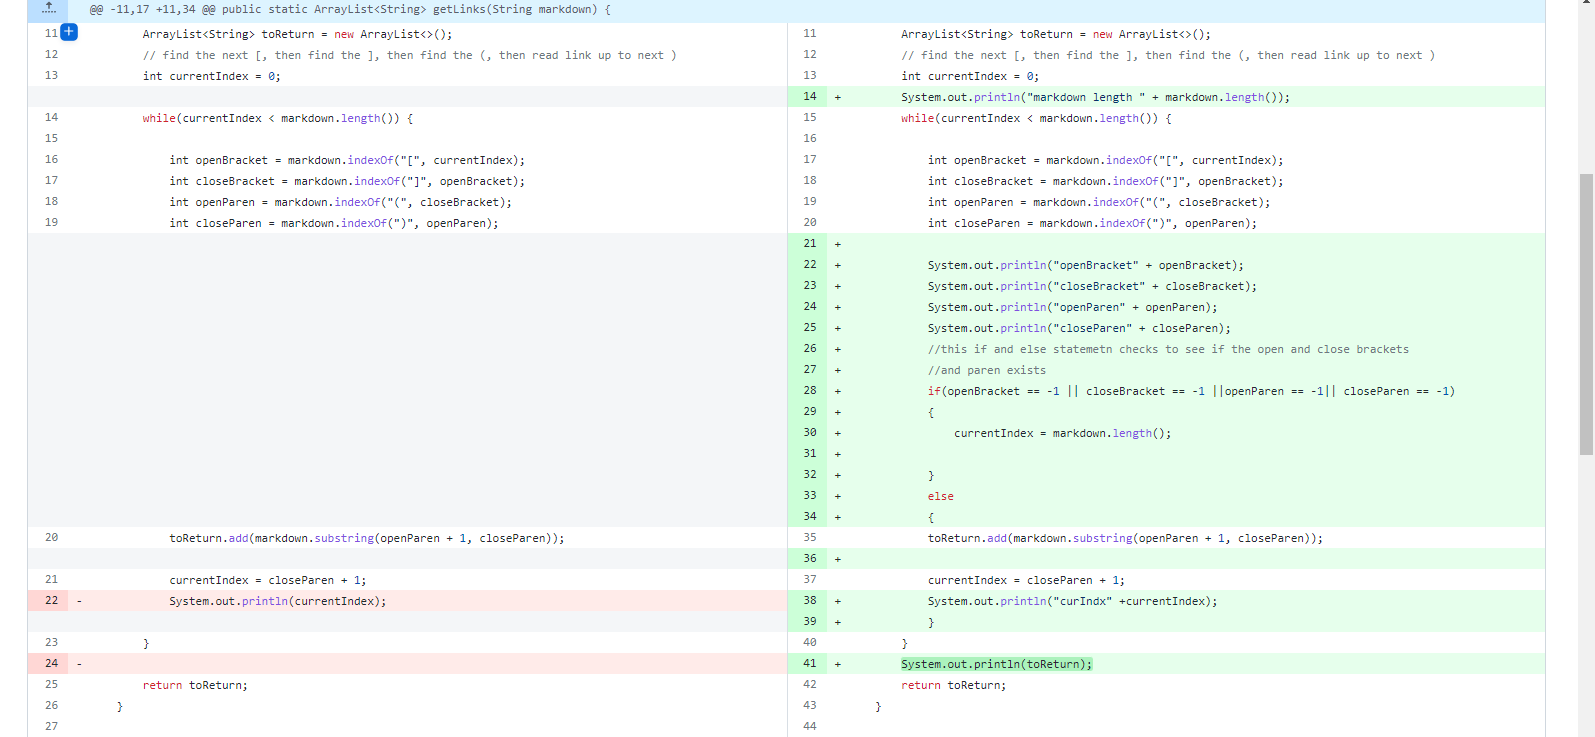
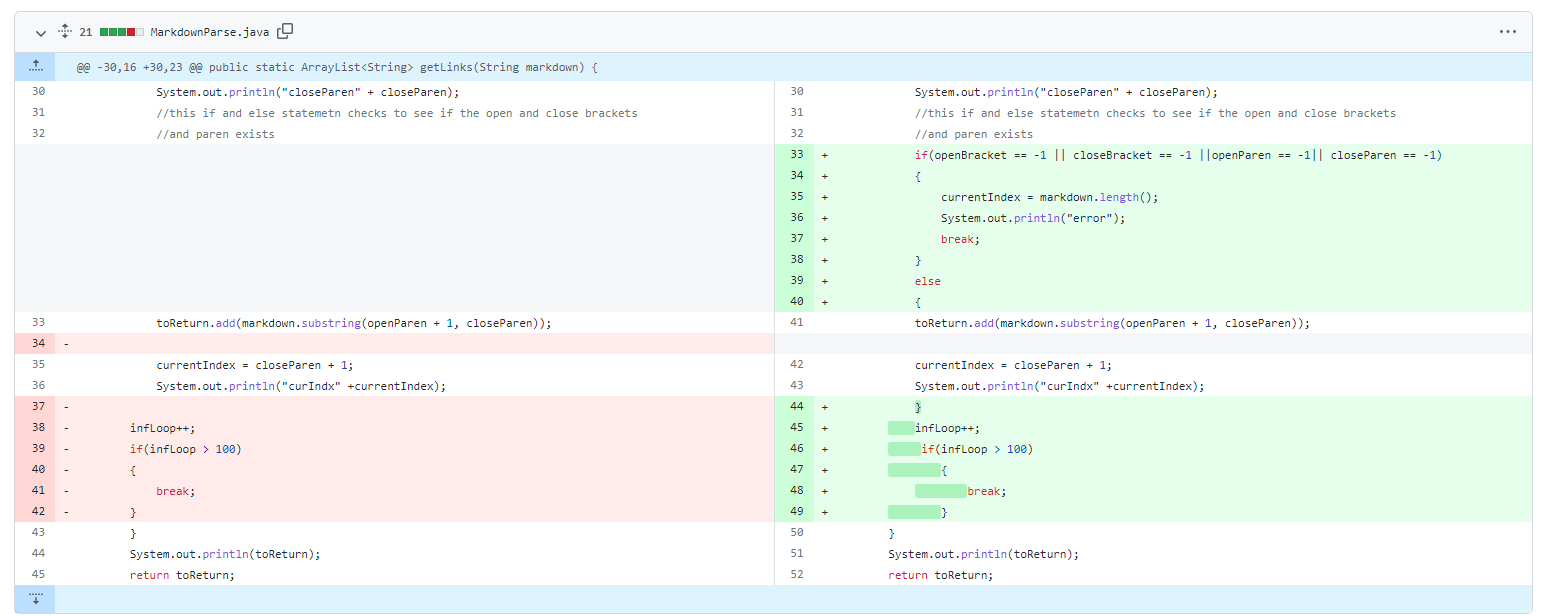
LabReport2 Complete

diff --git a/LabReport2.md b/LabReport2.md
@@ -5,4 +5,39 @@
 
 ![MarkdownCodeBeforeandAfter](Screenshot.PNG)
 
-This screenshot shows all the changes I will talk about at once!
+*This screenshot shows all the changes I will talk about at once!*
+
+Fyi-the if statement to stop the while loop for infinte loops before the changes was created by me. This does assume that all the times the while loop finishes by 100 times means the loop is infinte, putting a limit in the number of markdown statements that can be made.
+
+## Test File 1 Failure
+
+[TestFile1](https://github.com/Firecrafter703/markdown-parser/blob/main/test-file.md)
+
+![FailureInput](testFile1Failure.PNG)
+
+The bug lies in the fact that the MarkdownCode does not recgonize when there are no more markdown statement if a new line is added. If there is an empty spaces added, then the while loop assumes there are more aspects to take note of. This happens through a failure to recognize the open bracket, giving openBracket a value of -1. This in turn affects all the other variables, leading up to the current index always be a fixed number, never breaking out of the while loop. This creates the sympton of an infinite while loop. When my infinite checker if statemetn eventually runs, the arrayList now has way too many links then what the tester was expecting.
+
+Stopping the bug:openBracket cannot be negative 1, I must break the while loop if it is.
+
+## Test File 2 Failure
+
+[TestFile2](https://github.com/Firecrafter703/markdown-parser/blob/main/Test-file2.md)
+
+![FailureInput](testFile2Failure.PNG)
+
+The bug revolves around a case that does not account if a closed bracket does note exist. Because a closed bracket does not exist, closeBracket is always -1, making openParen and CloseParen the same number always. This is in turn makes currentIndex the same number, creating the sympton of the while loop running infinitly. Eventually, my infinite loop check case ends the loop, but now the ArrayList is bigger then what the test was expecting. 
+
+Stopping the bug:closeBracket cannot be negative 1, I must break the while loop if it is.
+
+
+## Test File 3 Failure
+
+[TestFile3](https://github.com/Firecrafter703/markdown-parser/blob/main/test-file3.md)
+
+![FailureInput](testFile3Failure.PNG)
+
+Without a closed parentheses, closeParen in all loops will always be a -1, effectvely forcing the current idnex to always be 0. This bug creates the sympton with a maintained while loop. Eventually, when the while loop is ended by my infinite loop check case, there is an infinte amount of the links added to the arrayList, which the test was not expecting. 
+
+Stopping the bug:closeParen cannot be negative 1, I must break the while loop if it is.
+
+
